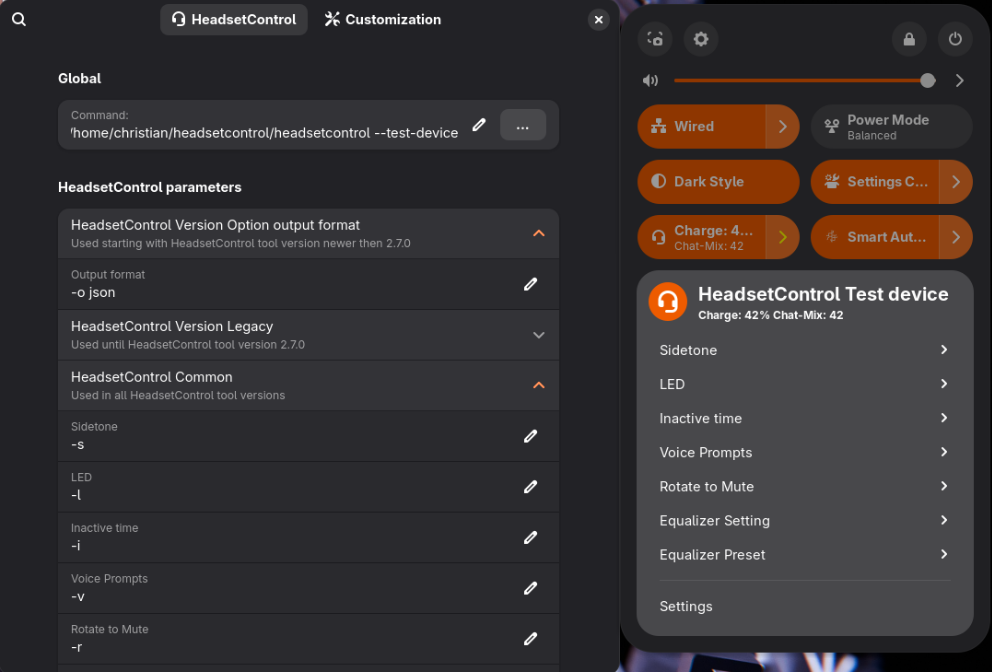
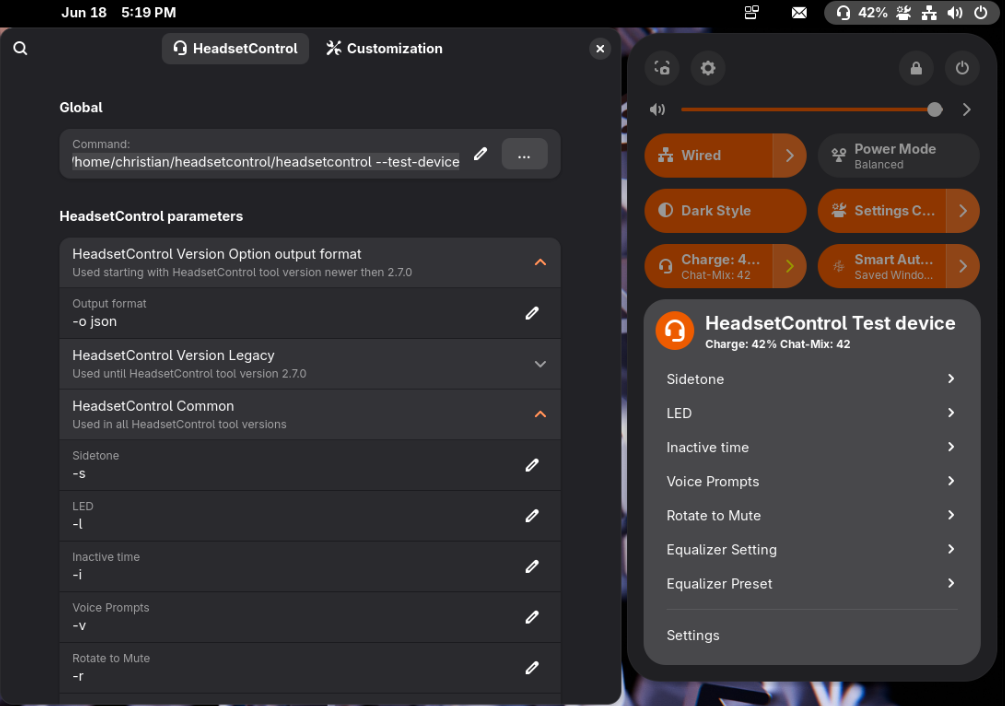
Adds battery level indicator to system tray (#45)
* Bumped version
*Systemindicator label
*Update screenshot

diff --git a/HeadsetControl@lauinger-clan.de/extension.js b/HeadsetControl@lauinger-clan.de/extension.js
@@ -21,6 +21,8 @@
 import GLib from "gi://GLib";
 import Gio from "gi://Gio";
 import GObject from "gi://GObject";
+import St from "gi://St";
+import Clutter from "gi://Clutter";
 
 import * as Main from "resource:///org/gnome/shell/ui/main.js";
 import * as PopupMenu from "resource:///org/gnome/shell/ui/popupMenu.js";
@@ -231,6 +233,10 @@ const HeadsetControlMenuToggle = GObject.registerClass(
                     this._valueBattery = _("Charge") + ": " + strBattery;
                 }
             }
+        }
+
+        get valueBattery_num() {
+            return this._valueBattery_num;
         }
 
         updateHeadsetName(strHeadsetname) {
@@ -500,24 +506,54 @@ const HeadsetControlIndicator = GObject.registerClass(
         constructor(Me) {
             const { _settings } = Me;
             super();
-            if (_settings.get_boolean("show-systemindicator")) {
-                // Create the icon for the indicator
-                this._indicator = this._addIndicator();
-                this._indicator.icon_name = "audio-headset-symbolic";
-            }
+
+            // Create the icon for the indicator
+            this._indicator = this._addIndicator();
+            this._indicatorLabel = new St.Label({
+                text: "N/A",
+                y_expand: true,
+                y_align: Clutter.ActorAlign.CENTER,
+            });
+            this.add_child(this._indicatorLabel);
+            this._indicator.icon_name = "audio-headset-symbolic";
+            let showindicator = _settings.get_boolean("show-systemindicator");
+            this._indicator.visible = showindicator;
+            this._indicatorLabel.visible = showindicator;
 
             // Create the toggle menu and associate it with the indicator, being
             // sure to destroy it along with the indicator
-            this._HeadSetControlMenuToggle = new HeadsetControlMenuToggle(Me);
-            this.quickSettingsItems.push(this._HeadSetControlMenuToggle);
+            this._headSetControlMenuToggle = new HeadsetControlMenuToggle(Me);
+            this.quickSettingsItems.push(this._headSetControlMenuToggle);
 
             this.connect("destroy", () => {
                 this.quickSettingsItems.forEach((item) => item.destroy());
             });
 
             // Add the indicator to the panel and the toggle to the menu
-            QuickSettingsMenu._indicators.add_child(this);
+            QuickSettingsMenu._indicators.insert_child_at_index(this, 0);
             QuickSettingsMenu.addExternalIndicator(this);
+        }
+
+        setVisible(state) {
+            this._indicator.visible = state;
+            this._indicatorLabel.visible = state;
+        }
+
+        updateLabel() {
+            if (this._indicatorLabel) {
+                let battery_num =
+                    this._headSetControlMenuToggle.valueBattery_num;
+                if (battery_num < 0) {
+                    this._indicatorLabel.set_text("N/A");
+                    return;
+                }
+                this._indicatorLabel.set_text(battery_num.toString() + "%");
+            }
+        }
+
+        updateUIElements() {
+            this._headSetControlMenuToggle.setMenuHeader();
+            this._headSetControlMenuToggle.setMenuTitle();
         }
     }
 );
@@ -713,23 +749,24 @@ export default class HeadsetControl extends Extension {
                 _logoutput(headsetname);
                 if (updateIndicator) {
                     if (this._needCapabilitiesRefresh) {
-                        this._HeadsetControlIndicator._HeadSetControlMenuToggle.refreshMenu(
+                        this.HeadsetControlIndicator._headSetControlMenuToggle.refreshMenu(
                             this
                         );
                     }
-                    this._HeadsetControlIndicator._HeadSetControlMenuToggle.updateHeadsetName(
+                    this.HeadsetControlIndicator._headSetControlMenuToggle.updateHeadsetName(
                         headsetname
                     );
-                    this._HeadsetControlIndicator._HeadSetControlMenuToggle.updateBatteryStatus(
+
+                    this.HeadsetControlIndicator._headSetControlMenuToggle.updateBatteryStatus(
                         output.devices[0].battery.status,
                         output.devices[0].battery.level + "%",
                         output.devices[0].battery.level
                     );
-                    this._HeadsetControlIndicator._HeadSetControlMenuToggle.updateChatMixStatus(
+                    this.HeadsetControlIndicator._headSetControlMenuToggle.updateChatMixStatus(
                         output.devices[0].chatmix
                     );
-                    this._HeadsetControlIndicator._HeadSetControlMenuToggle.setMenuHeader();
-                    this._HeadsetControlIndicator._HeadSetControlMenuToggle.setMenuTitle();
+                    this.HeadsetControlIndicator.updateLabel();
+                    this.HeadsetControlIndicator.updateUIElements();
                 }
                 this._needCapabilitiesRefresh = false;
             }
@@ -789,8 +826,8 @@ export default class HeadsetControl extends Extension {
                 this._refreshChatMixStatus();
             }
         } finally {
-            this._HeadsetControlIndicator._HeadSetControlMenuToggle.setMenuHeader();
-            this._HeadsetControlIndicator._HeadSetControlMenuToggle.setMenuTitle();
+            this.HeadsetControlIndicator.updateLabel();
+            this.HeadsetControlIndicator.updateUIElements();
         }
     }
 
@@ -856,7 +893,7 @@ export default class HeadsetControl extends Extension {
             return false;
         }
         let strBattery = this._getHeadSetControlValue(strOutput, "Battery");
-        this._HeadsetControlIndicator._HeadSetControlMenuToggle.updateBatteryStatus(
+        this.HeadsetControlIndicator._headSetControlMenuToggle.updateBatteryStatus(
             "N/A",
             strBattery,
             strBattery.replace("%", "")
@@ -871,7 +908,7 @@ export default class HeadsetControl extends Extension {
             return false;
         }
         let strChatMix = this._getHeadSetControlValue(strOutput, "Chat"); //ChatMix or Chat-Mix
-        this._HeadsetControlIndicator._HeadSetControlMenuToggle.updateChatMixStatus(
+        this.HeadsetControlIndicator._headSetControlMenuToggle.updateChatMixStatus(
             strChatMix
         );
         return true;
@@ -899,8 +936,8 @@ export default class HeadsetControl extends Extension {
         if (capabilities.chatmix) {
             this._refreshChatMixStatus();
         }
-        this._HeadsetControlIndicator._HeadSetControlMenuToggle.setMenuHeader();
-        this._HeadsetControlIndicator._HeadSetControlMenuToggle.setMenuTitle();
+        this.HeadsetControlIndicator.updateLabel();
+        this.HeadsetControlIndicator.updateUIElements();
     }
 
     onParamChanged() {
@@ -910,10 +947,17 @@ export default class HeadsetControl extends Extension {
 
     onParamChangedMenu() {
         if (capabilities.sidetone) {
-            this._HeadsetControlIndicator._HeadSetControlMenuToggle.refreshMenu(
+            this.HeadsetControlIndicator._headSetControlMenuToggle.refreshMenu(
                 this
             );
         }
+    }
+
+    onParamChangedIndicator() {
+        this.HeadsetControlIndicator.setVisible(
+            this._settings.get_boolean("show-systemindicator")
+        );
+        this.HeadsetControlIndicator.updateLabel();
     }
 
     _openPreferences() {
@@ -926,11 +970,11 @@ export default class HeadsetControl extends Extension {
         this._settings = this.getSettings();
         this._initCmd();
 
-        if (!this._refreshJSONall(false)) {
+        this.HeadsetControlIndicator = new HeadsetControlIndicator(this);
+        let showindicator = this._settings.get_boolean("show-systemindicator");
+        if (!this._refreshJSONall(showindicator)) {
             this._refreshCapabilities();
         }
-
-        this._HeadsetControlIndicator = new HeadsetControlIndicator(this);
 
         // add Signals to array
         this._SignalsArray = [];
@@ -944,7 +988,10 @@ export default class HeadsetControl extends Extension {
             { key: "headsetcontrol-executable", callback: "_initCmd" },
             { key: "use-notifications", callback: "_initCmd" },
             { key: "use-logging", callback: "_initCmd" },
-            { key: "show-systemindicator", callback: "onParamChanged" },
+            {
+                key: "show-systemindicator",
+                callback: "onParamChangedIndicator",
+            },
             { key: "sidetone-values", callback: "onParamChangedMenu" },
             {
                 key: "option-equalizer-settings",
@@ -972,8 +1019,8 @@ export default class HeadsetControl extends Extension {
         }, this);
         this._SignalsArray = null;
         this._settings = null;
-        this._HeadsetControlIndicator.destroy();
-        this._HeadsetControlIndicator = null;
+        this.HeadsetControlIndicator.destroy();
+        this.HeadsetControlIndicator = null;
         this._devicecount = null;
         usenotifications = null;
         uselogging = null;
